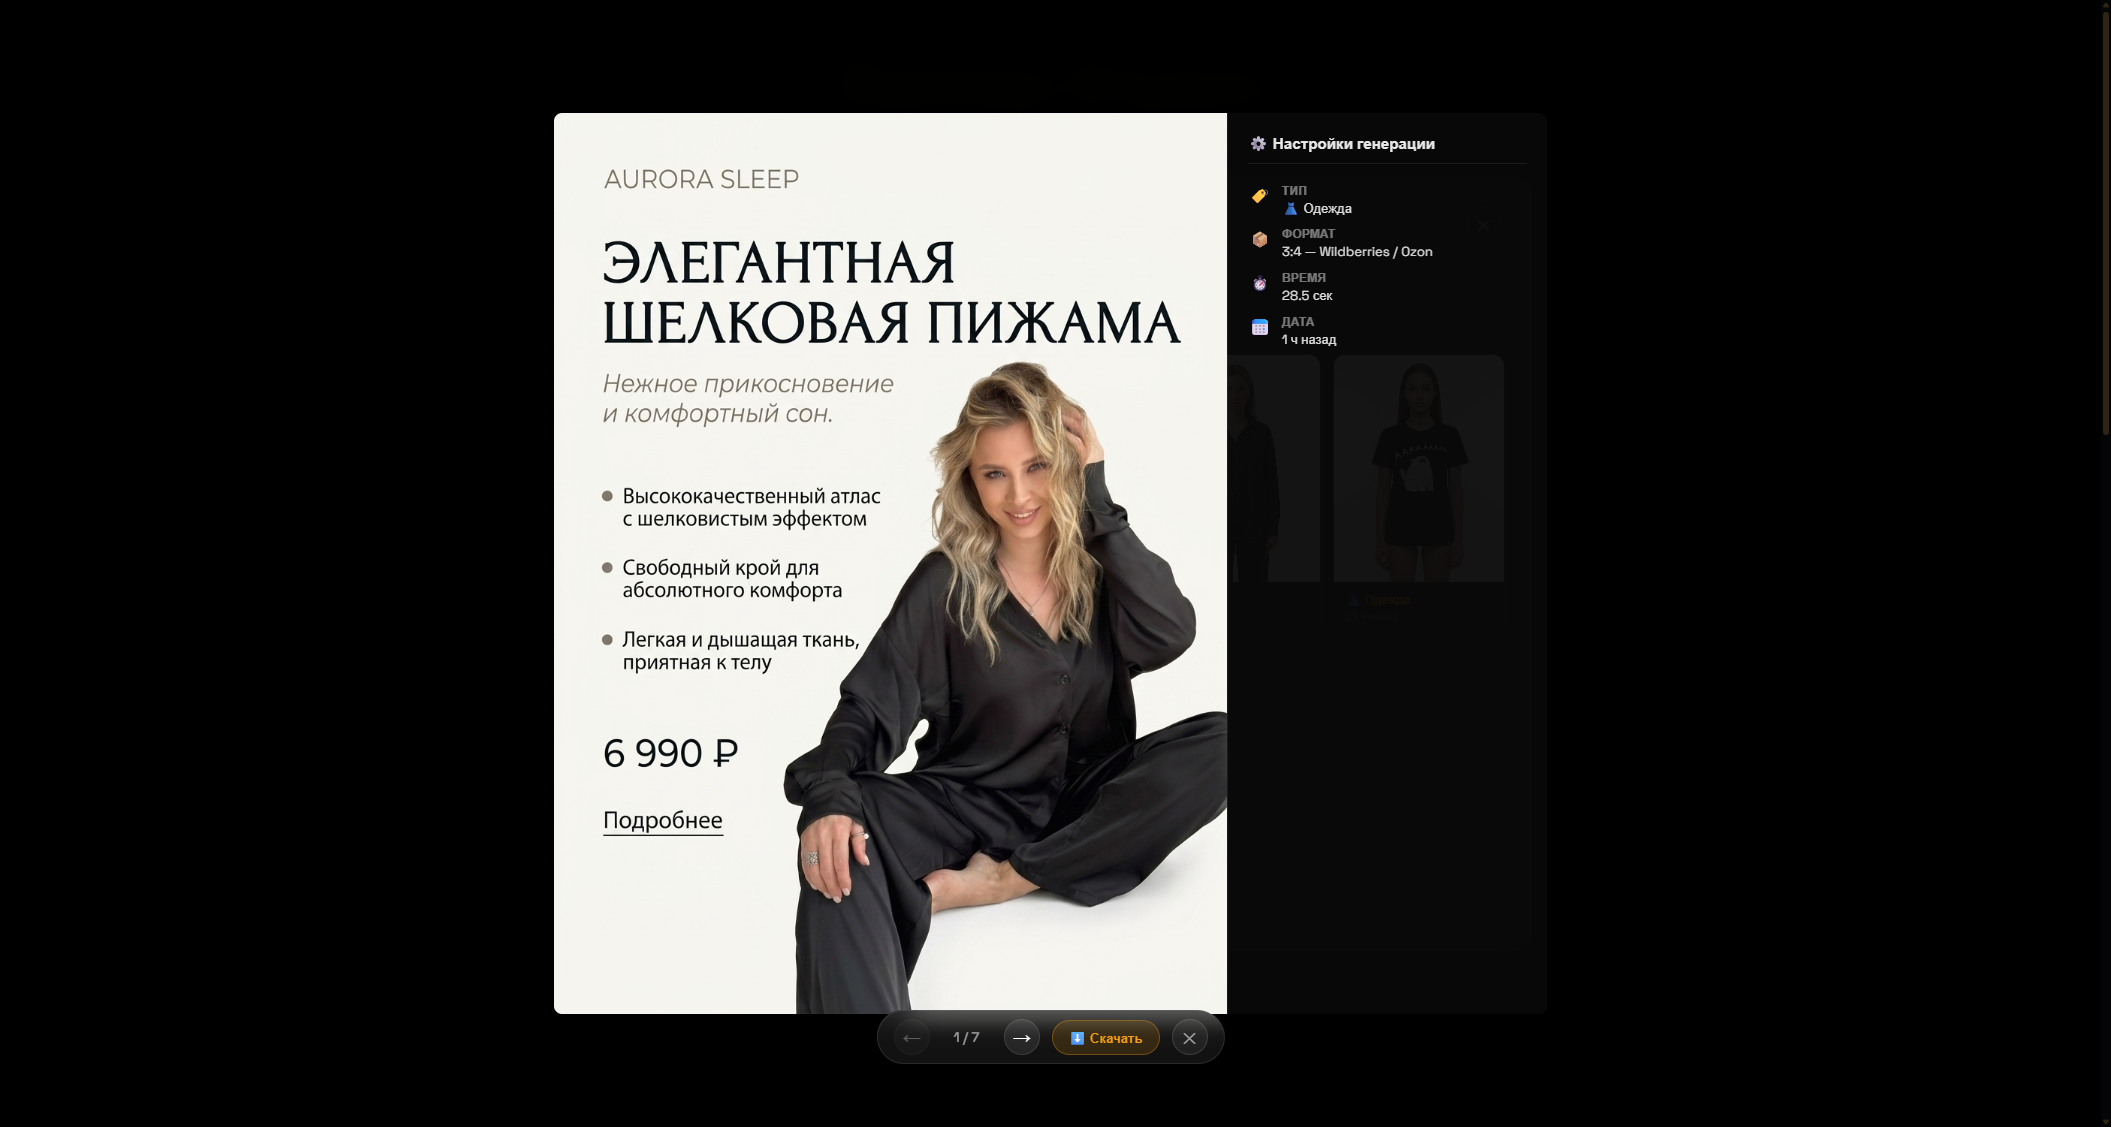
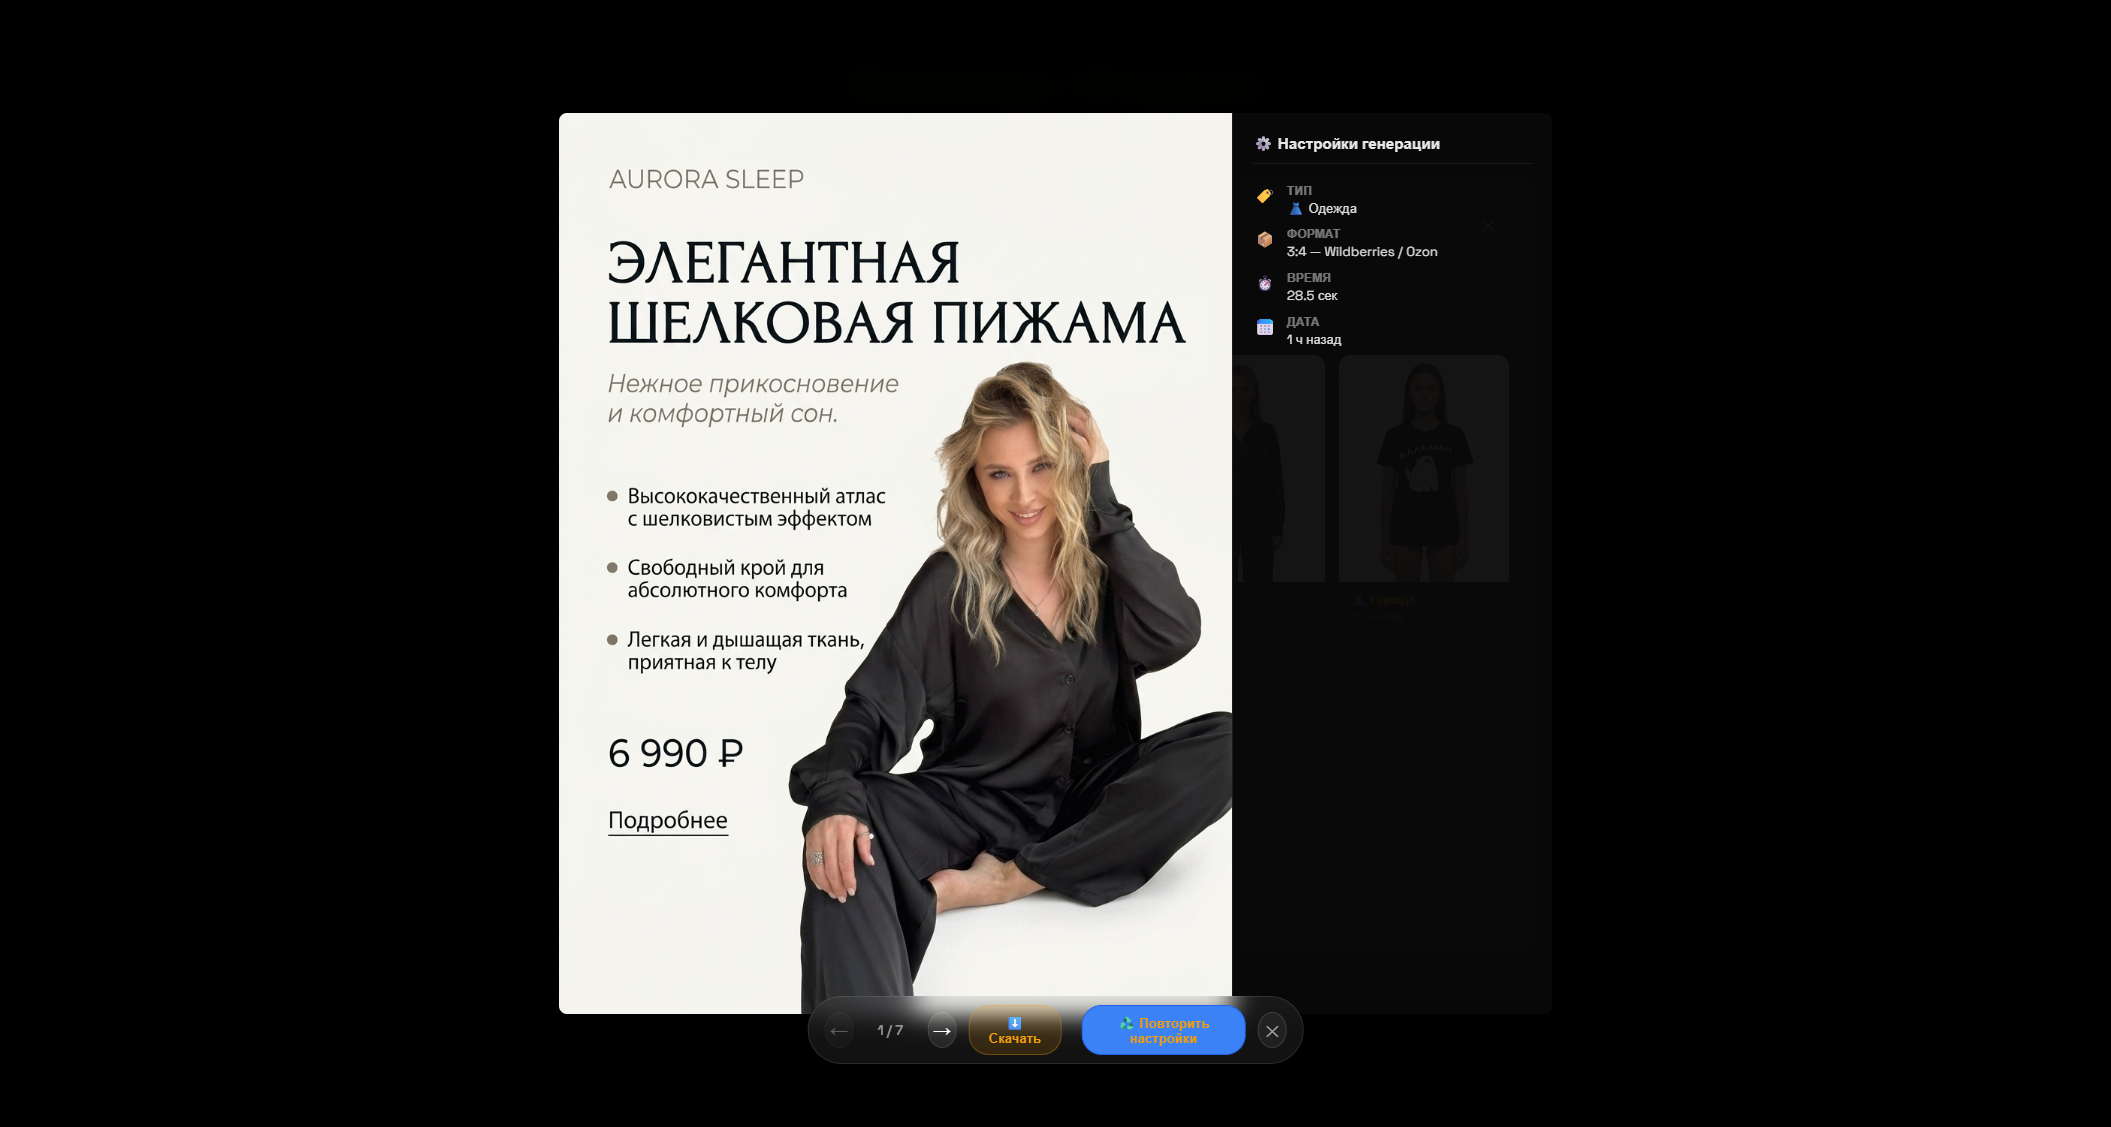
style(history): premium design for reuse settings button, fix attribute rendering and binding

diff --git a/src/components/MyHistoryPage.jsx b/src/components/MyHistoryPage.jsx
@@ -246,15 +246,28 @@ export default function MyHistoryPage({ onClose, onReuseSettings }) {
         }
 
         // Детальные характеристики модели
-        if (gen.attributes && typeof gen.attributes === 'object') {
-          if (gen.attributes.bodyType) details.push({ icon: '📏', label: 'Телосложение', value: gen.attributes.bodyType });
-          if (gen.attributes.hairColor || gen.attributes.hairLength) {
-            const hair = [gen.attributes.hairLength, gen.attributes.hairColor].filter(Boolean).join(' ');
-            if (hair) details.push({ icon: '💇', label: 'Волосы', value: hair });
-          }
-          if (gen.attributes.emotion) details.push({ icon: '🎭', label: 'Эмоция', value: gen.attributes.emotion });
-          if (gen.attributes.tattoo && gen.attributes.tattoo !== 'Нет') details.push({ icon: '🖋️', label: 'Тату', value: gen.attributes.tattoo });
-          if (gen.attributes.piercing && gen.attributes.piercing !== 'Нет') details.push({ icon: '💎', label: 'Пирсинг', value: gen.attributes.piercing });
+        const isFashion = gen.type === 'fashion' || gen.type === 'quick' || !gen.type;
+        const isProductWithModel = gen.type === 'product' && gen.withHumanModel;
+
+        if (isFashion || isProductWithModel) {
+          const attrs = gen.attributes || {};
+          
+          details.push({ icon: '📏', label: 'Телосложение', value: attrs.bodyType || 'По умолчанию' });
+          
+          const hair = [attrs.hairLength, attrs.hairColor].filter(Boolean).join(' ');
+          details.push({ icon: '💇', label: 'Волосы', value: hair || 'По умолчанию' });
+          
+          details.push({ icon: '🎭', label: 'Эмоция', value: attrs.emotion || 'По умолчанию' });
+          
+          const tattooVal = Array.isArray(attrs.tattoo) 
+            ? attrs.tattoo.filter(x => x !== 'Нет').join(', ') 
+            : (attrs.tattoo !== 'Нет' ? attrs.tattoo : '');
+          details.push({ icon: '🖋️', label: 'Тату', value: tattooVal || 'Нет' });
+          
+          const piercingVal = Array.isArray(attrs.piercing)
+            ? attrs.piercing.filter(x => x !== 'Нет').join(', ')
+            : (attrs.piercing !== 'Нет' ? attrs.piercing : '');
+          details.push({ icon: '💎', label: 'Пирсинг', value: piercingVal || 'Нет' });
         }
 
         // Поза
@@ -360,11 +373,10 @@ export default function MyHistoryPage({ onClose, onReuseSettings }) {
                 {onReuseSettings && (
                   <button
                     className="history-lb-download history-lb-reuse"
-                    style={{ background: '#3b82f6', borderColor: '#2563eb', marginLeft: '8px' }}
                     onClick={() => onReuseSettings(gen)}
                     title="Применить эти настройки"
                   >
-                    ♻️ Повторить настройки
+                    🪄 Повторить настройки
                   </button>
                 )}
                 <button className="history-lb-close" onClick={() => setLightbox(null)}>✕</button>

diff --git a/src/App.css b/src/App.css
@@ -4862,3 +4862,29 @@ button[onclick*="signOut"],
   color: #f59e0b;
 }
 
+/* Кнопка повторения настроек в лайтбоксе */
+.history-lb-reuse {
+  background: linear-gradient(135deg, rgba(167, 139, 250, 0.15), rgba(139, 92, 246, 0.15)) !important;
+  border: 1px solid rgba(167, 139, 250, 0.35) !important;
+  color: #a78bfa !important;
+  font-weight: 600;
+  display: inline-flex;
+  align-items: center;
+  gap: 8px;
+  margin-left: 10px;
+  transition: all 0.25s cubic-bezier(0.4, 0, 0.2, 1);
+  box-shadow: 0 4px 12px rgba(139, 92, 246, 0.05);
+}
+
+.history-lb-reuse:hover {
+  background: linear-gradient(135deg, rgba(167, 139, 250, 0.28), rgba(139, 92, 246, 0.28)) !important;
+  border-color: rgba(167, 139, 250, 0.6) !important;
+  color: #c084fc !important;
+  box-shadow: 0 4px 20px rgba(139, 92, 246, 0.25);
+  transform: translateY(-1.5px);
+}
+
+.history-lb-reuse:active {
+  transform: translateY(0);
+}
+

diff --git a/src/App.jsx b/src/App.jsx
@@ -644,7 +644,7 @@ function App() {
         cameraAngle: selectedCamera.prompt, backgroundPreset: bgPrompt,
         aspectRatio: selectedRatio.id, modelReferenceImages: modelRefImages,
         locationImages: locImages, customPoseText: customPoseText.trim() || undefined,
-        attributes: modelDetails, isBeautyMode, biometricSeed: seed,
+        attributes: appMode === 'product' ? productModelDetails : modelDetails, isBeautyMode, biometricSeed: seed,
         isProductMode: appMode === 'product',
         categoryId: appMode === 'product' ? selectedProductCategory.id : undefined,
         withHumanModel: appMode === 'product' && productWithModel,
@@ -1030,7 +1030,7 @@ function App() {
           aspectRatio: selectedRatio.id, modelReferenceImages: editRefImages.length > 0 ? editRefImages : null,
           locationImages: locImages,
           editInstruction: mod,
-          attributes: modelDetails, isBeautyMode, biometricSeed,
+          attributes: appMode === 'product' ? productModelDetails : modelDetails, isBeautyMode, biometricSeed,
           isProductMode: appMode === 'product',
           categoryId: appMode === 'product' ? selectedProductCategory.id : undefined,
         }),
@@ -1408,7 +1408,7 @@ function App() {
             posePreset: angle.pose, cameraAngle: angle.camera,
             backgroundPreset: bgPrompt, aspectRatio: selectedRatio.id,
             modelReferenceImages: modelRefImages, locationImages: locImages,
-            attributes: modelDetails, isBeautyMode, biometricSeed,
+            attributes: appMode === 'product' ? productModelDetails : modelDetails, isBeautyMode, biometricSeed,
             isProductMode: appMode === 'product',
             categoryId: appMode === 'product' ? selectedProductCategory.id : undefined,
             withHumanModel: appMode === 'product' && productWithModel,
@@ -1520,7 +1520,11 @@ function App() {
         if (bg) { setSelectedProductBg(bg); setCustomProductBg(''); }
         else { setCustomProductBg(gen.backgroundPreset); setSelectedProductBg(null); }
       }
-      if (gen.attributes) setProductModelDetails(gen.attributes);
+      if (gen.attributes && typeof gen.attributes === 'object') {
+        setProductModelDetails({ ...initDetails(), ...gen.attributes });
+      } else {
+        setProductModelDetails(initDetails());
+      }
       if (gen.withHumanModel !== undefined) setProductWithModel(gen.withHumanModel);
     } else {
       if (gen.modelPreset) {
@@ -1528,7 +1532,11 @@ function App() {
         if (m) { setSelectedModel(m); setCustomModelPrompt(''); }
         else { setCustomModelPrompt(gen.modelPreset); setSelectedModel(null); }
       }
-      if (gen.attributes) setModelDetails(gen.attributes);
+      if (gen.attributes && typeof gen.attributes === 'object') {
+        setModelDetails({ ...initDetails(), ...gen.attributes });
+      } else {
+        setModelDetails(initDetails());
+      }
       
       if (gen.posePreset) {
         const p = POSE_PRESETS.find(x => x.prompt === gen.posePreset || x.id === gen.posePreset);

diff --git a/src/components/DetailPanel.jsx b/src/components/DetailPanel.jsx
@@ -28,6 +28,7 @@ export default function DetailPanel({ modelDetails, setModelDetails, visible, ge
   };
 
   const isActive = (key, opt) => {
+    if (!modelDetails) return false;
     const val = modelDetails[key];
     if (MULTI_SELECT_FIELDS.includes(key) && Array.isArray(val)) return val.includes(opt);
     return val === opt;